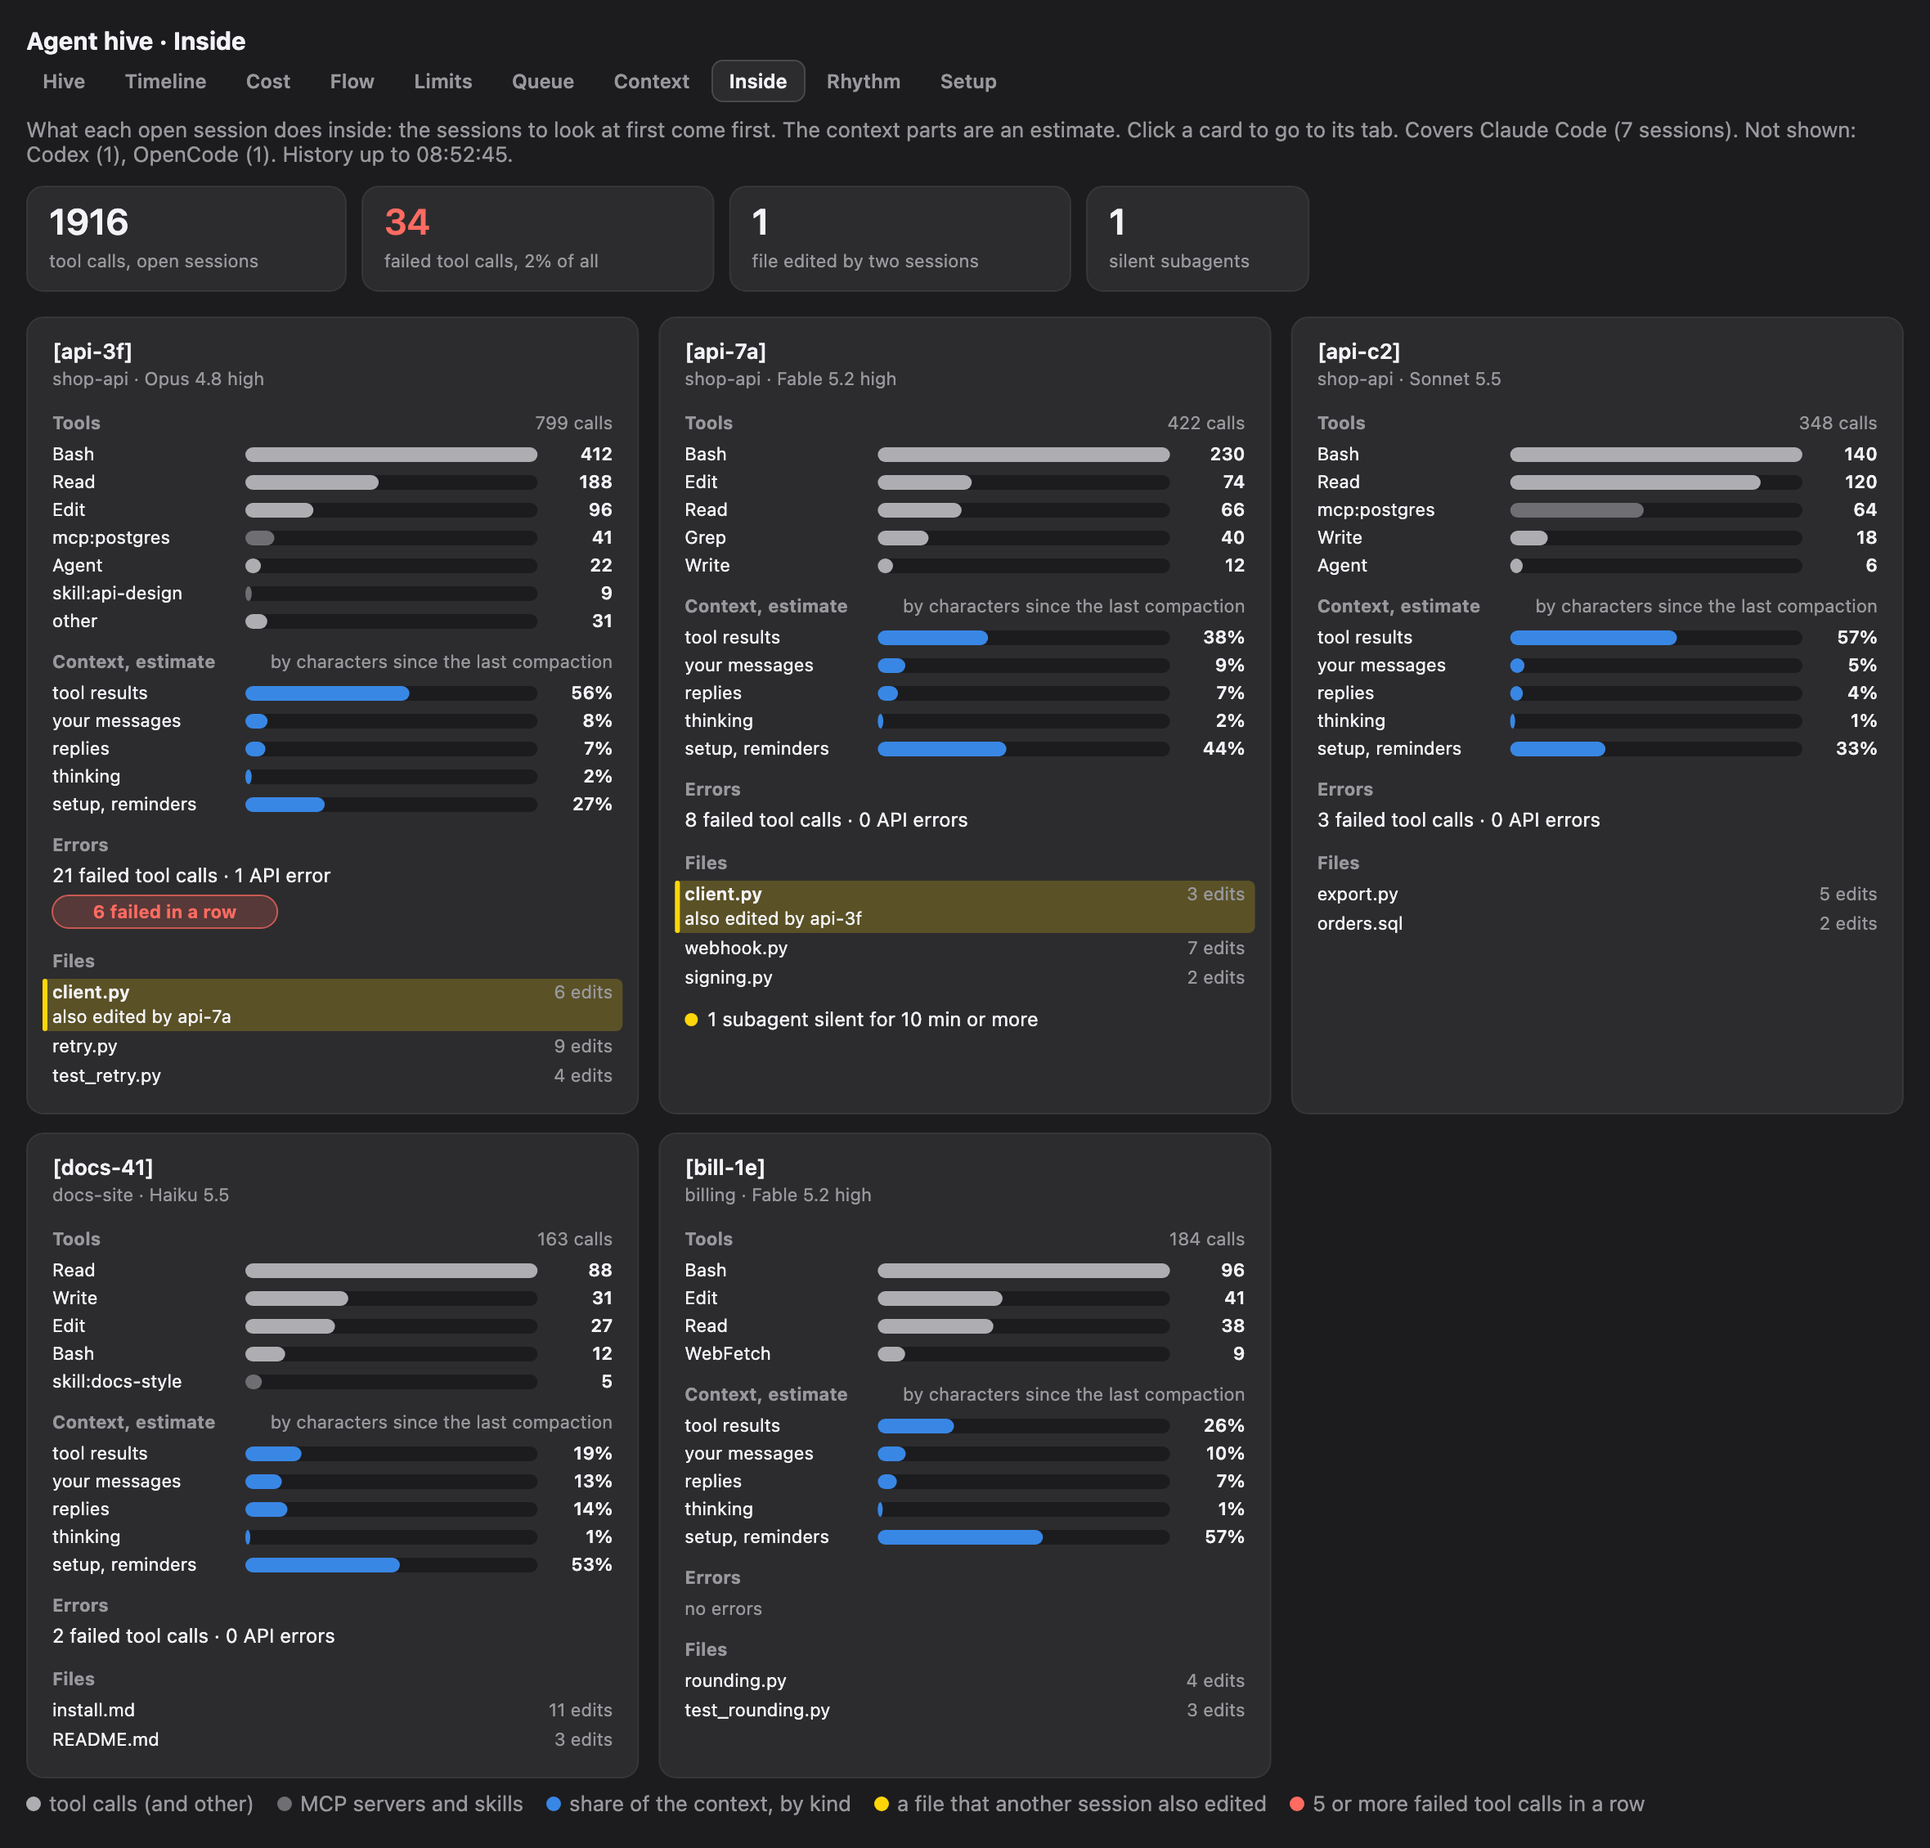
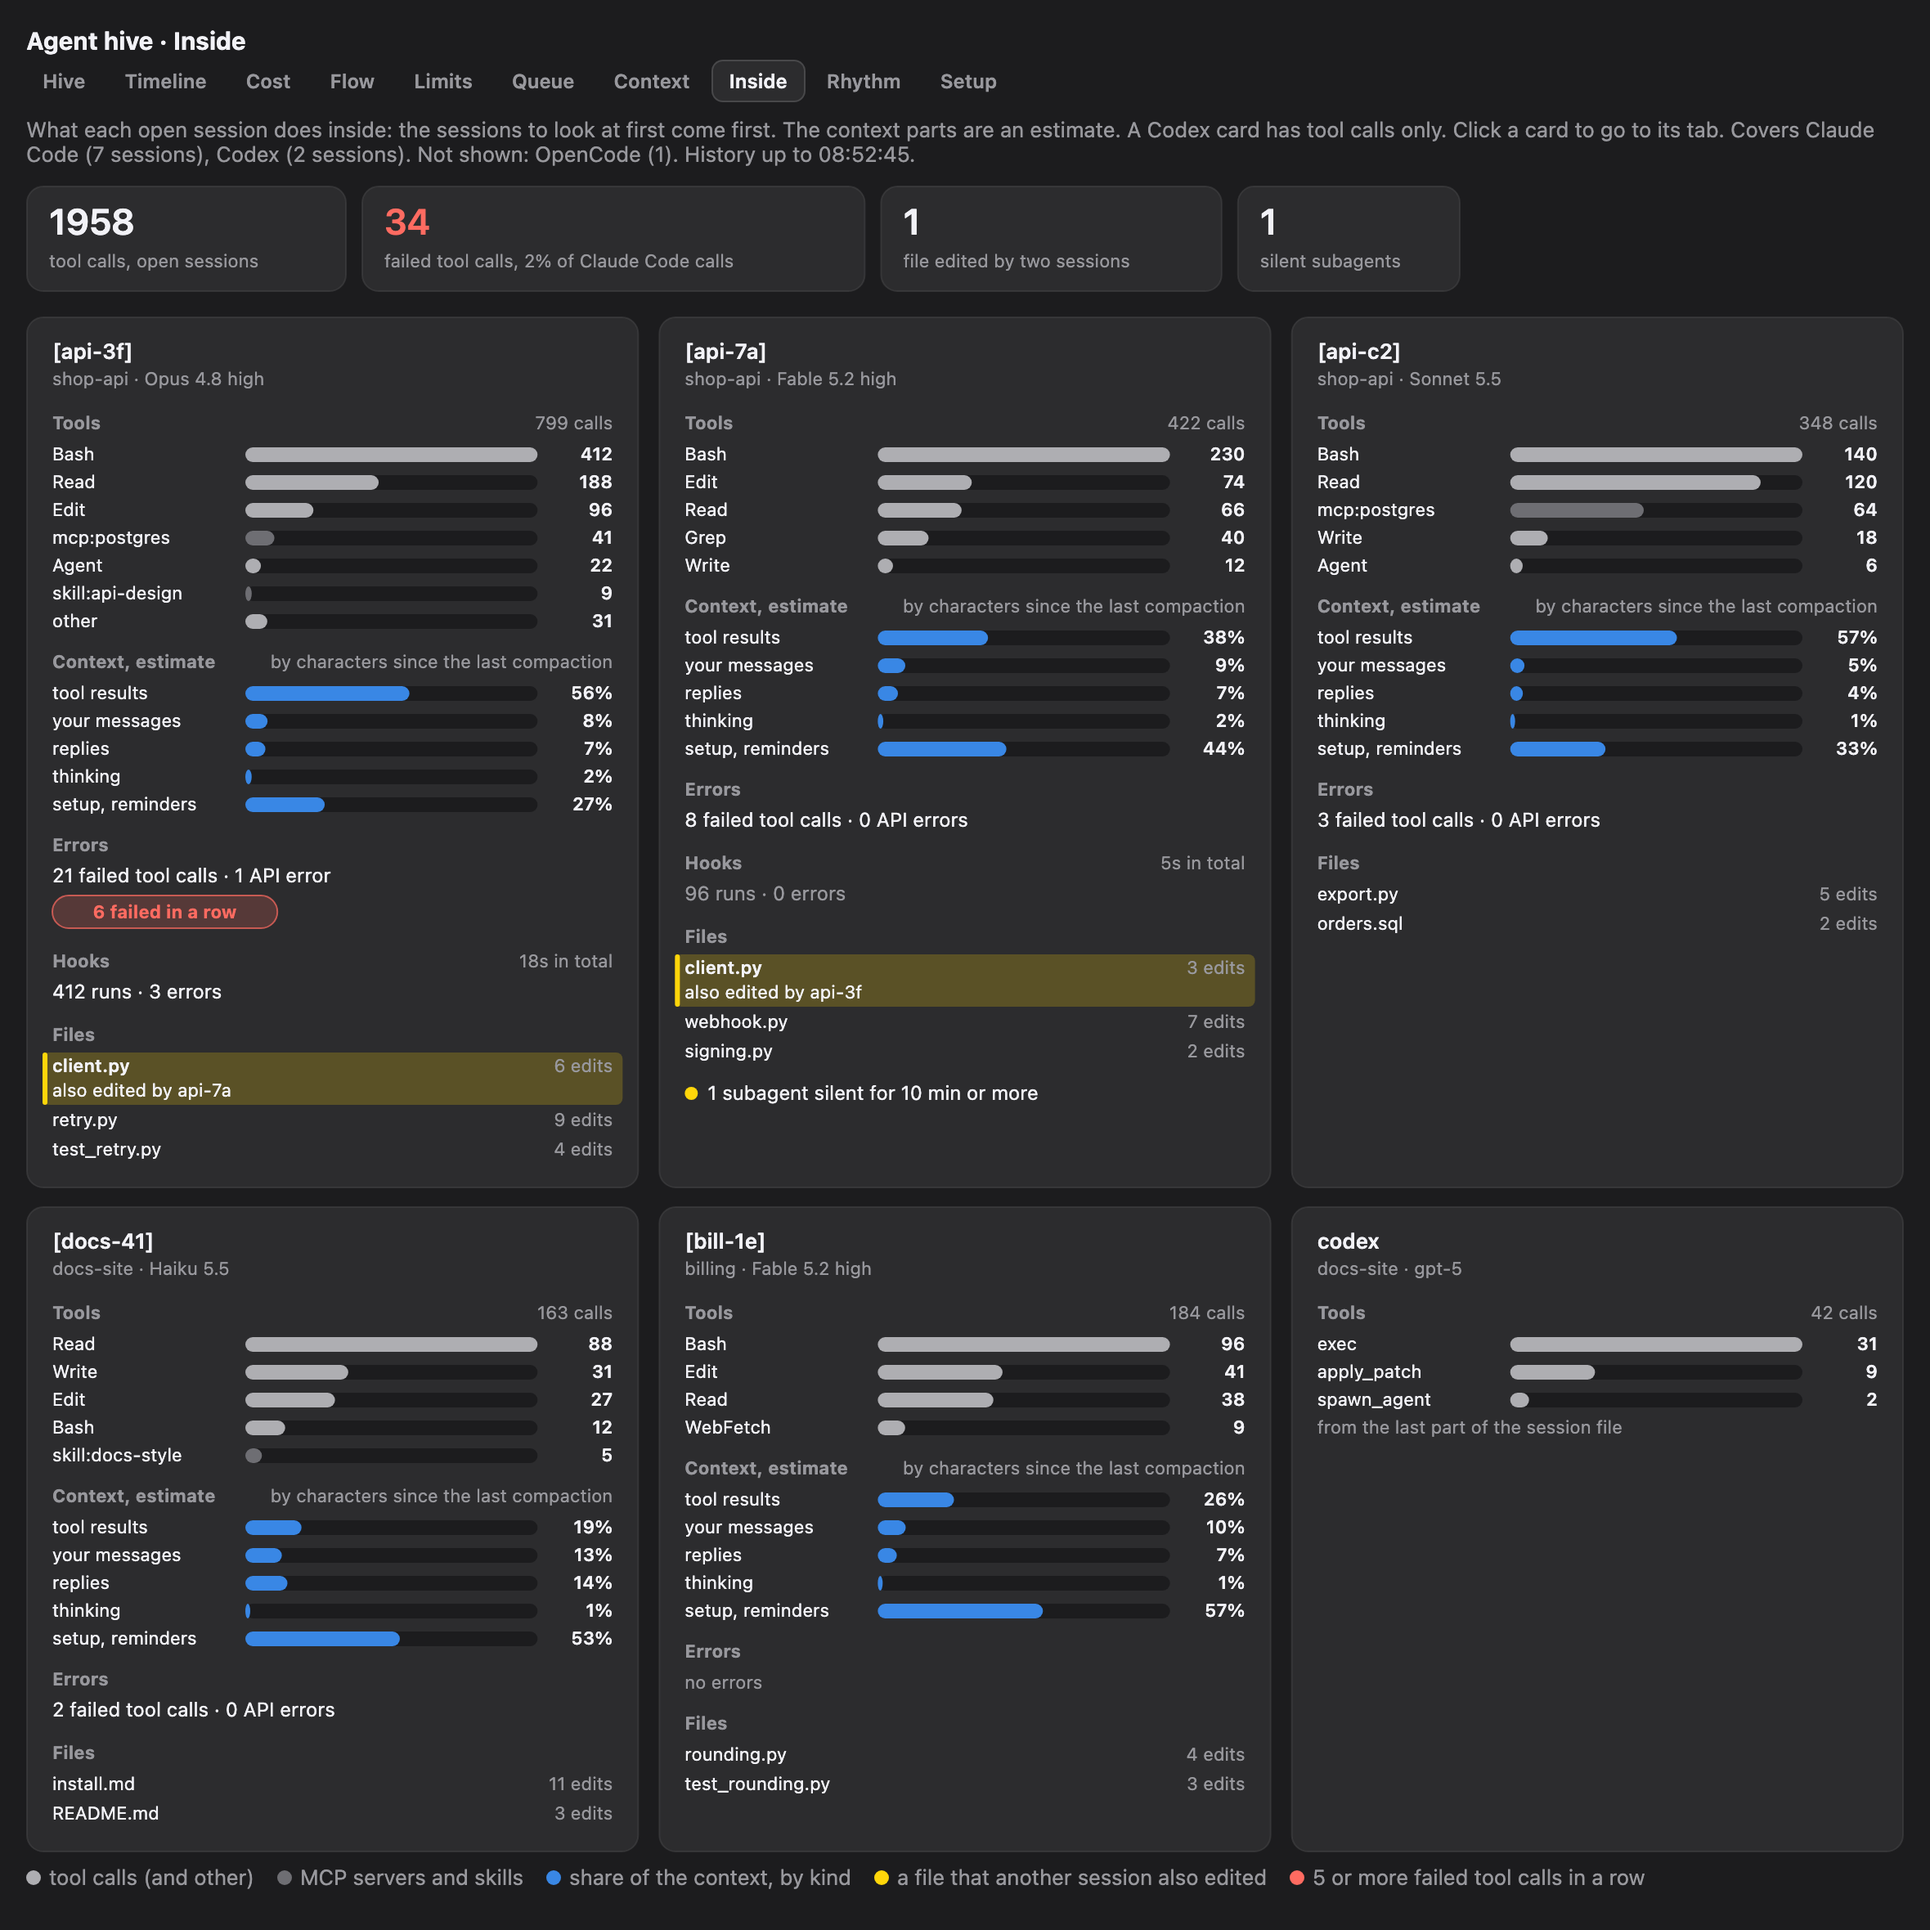
Inside: count hook errors from the turn summary, not a blocked figure; new sample pictures
No blocked-hook record exists in real transcripts, so the card shows hook
errors (non-zero exit codes and the error count of the stop-hook summary).
The failed share is of Claude Code calls only.

Claude-Session: https://claude.ai/code/session_01HXnduGYF8UR6DKBXDS7SRz

diff --git a/scripts/hive.html b/scripts/hive.html
@@ -1005,11 +1005,11 @@ function insideCard(a, CW) {
       y += 26;
     }
   }
-  // Hooks: how often the hooks of the harness ran in this session, how many runs blocked a step, and their time.
+  // Hooks: how often the hooks of the harness ran in this session, how many reported an error, and their time.
   if (a.hk > 0) {
     y += 8;
     head("Hooks", a.hm ? dur(a.hm / 1000) + " in total" : "");
-    g.appendChild(el("text", { x: 16, y: y + 11, style: "font-size:12px" + (a.hb ? "" : ";fill:var(--dim)") }, plural(a.hk, "run", "runs") + " · " + a.hb + " blocked"));
+    g.appendChild(el("text", { x: 16, y: y + 11, style: "font-size:12px" + (a.hb ? "" : ";fill:var(--dim)") }, plural(a.hk, "run", "runs") + " · " + plural(a.hb, "error", "errors")));
     y += 18;
   }
   // Files: the most edited ones, a file that another session also edited first and with the warning colour.
@@ -1048,13 +1048,15 @@ function drawInside(svg) {
   const urgent = (a) => (a.lp >= 5 ? 4 : 0) + (a.fo.length ? 2 : 0) + (a.er + a.ea ? 1 : 0);
   const rows = agents().filter(hasInside).sort((p, q) => urgent(q) - urgent(p) || calls(q) - calls(p));
   if (rows.length === 0) {
-    empty(svg, ["Nothing inside the sessions known yet.", "The watcher fills this view after the next reply of a Claude Code session.", ...onlyOthers(["Claude Code"])]);
-    return "Inside: no data." + coverage(["Claude Code"]);
+    empty(svg, ["Nothing inside the sessions known yet.", "The watcher fills this view after the next reply of a Claude Code session.", ...onlyOthers(["Claude Code", "Codex"])]);
+    return "Inside: no data." + coverage(["Claude Code", "Codex"]);
   }
   const W = pageWidth(), overlaps = new Set(rows.flatMap((a) => a.fo.map((f) => a.wn + "\n" + f[0]))).size;
+  // Codex cards carry no failure data, so the failed share is of the Claude Code calls.
+  const mine = rows.filter((a) => toolOf(a.k) !== "Codex").reduce((s, a) => s + calls(a), 0);
   const failed = rows.reduce((s, a) => s + a.er, 0), all = rows.reduce((s, a) => s + calls(a), 0), silent = rows.reduce((s, a) => s + a.sa, 0);
   // Failed calls are normal in a long session (a test that fails, a file that is not there): red only for a run of 5.
-  let y = tiles(svg, [[String(all), "tool calls, open sessions", ""], [String(failed), "failed tool calls" + (all ? ", " + Math.round(failed * 100 / all) + "% of all" : ""), rows.some((a) => a.lp >= 5) ? BAD : ""],
+  let y = tiles(svg, [[String(all), "tool calls, open sessions", ""], [String(failed), "failed tool calls" + (mine ? ", " + Math.round(failed * 100 / mine) + "% of Claude Code calls" : ""), rows.some((a) => a.lp >= 5) ? BAD : ""],
     [String(overlaps), overlaps === 1 ? "file edited by two sessions" : "files edited by two sessions", ""], [String(silent), "silent subagents", ""]]);
   y = grid(svg, y, W, rows, insideCard);
   size(svg, W, y + 6);

diff --git a/scripts/label-tabs.py b/scripts/label-tabs.py
@@ -196,7 +196,8 @@ def inside_line(state, line, now):
     times are kept, never text. now: the time of an edit whose line has no time (0 on a first read, so that an old
     edit does not look new)."""
     if b'"isSidechain":true' in line or not any(mark in line for mark in (
-            b'"type":"assistant"', b'"type":"user"', b'"type":"attachment"', b'"isApiErrorMessage":true')):
+            b'"type":"assistant"', b'"type":"user"', b'"type":"attachment"', b'"isApiErrorMessage":true',
+            b'"subtype":"stop_hook_summary"')):
         return
     try:
         record = json.loads(line)
@@ -212,16 +213,23 @@ def inside_line(state, line, now):
     if record.get("isApiErrorMessage") is True:
         state["ea"] += 1
         return
+    if record.get("subtype") == "stop_hook_summary":
+        # The summary of the hooks at the end of a turn: only the number of hooks that reported an error is kept.
+        errors = record.get("hookErrors")
+        state["hb"] += len(errors) if isinstance(errors, list) else 0
+        return
     if kind == "attachment":
         # A prompt snapshot is a copy of the prompt for the record, not a part of the context.
         attached = record.get("attachment") if isinstance(record.get("attachment"), dict) else {}
         if attached.get("type") != "prompt_snapshot":
             add("attachments", len(line.rstrip(b"\n")))
         # One record per run of a hook: its kind, exit code and run time are counted, never its command or output.
+        # A run with an exit code other than 0 is one hook error.
         kind = str(attached.get("type"))
         if kind.startswith("hook_") and kind != "hook_additional_context":
             state["hk"] += 1
-            state["hb"] += kind == "hook_blocking_error" or attached.get("exitCode") == 2
+            code = attached.get("exitCode")
+            state["hb"] += isinstance(code, int) and code != 0
             took = attached.get("durationMs")
             state["hm"] += took if isinstance(took, int) and 0 < took < 3_600_000 else 0
         return
@@ -272,7 +280,7 @@ def inside_save(path, state):
 
 
 def inside_summary(state):
-    """The hive keys of the counts: tl, tn, er, ea, lp, cm, fe, hk hook runs, hb hook blocks, hm hook time in ms,
+    """The hive keys of the counts: tl, tn, er, ea, lp, cm, fe, hk hook runs, hb hook errors, hm hook time in ms,
     sk the names of the skills called. A key with nothing to show is left out."""
     found = {}
     if state["tn"]:

diff --git a/tests/history.py b/tests/history.py
@@ -309,14 +309,16 @@ check("a Codex folder is counted with its own names", watcher.setup_inventory(os
       == {"files": [["AGENTS.md", 4]], "skills": 1, "commands": 1, "mcp": 2})
 # Hook runs: one record per run with its kind, exit code and time; the command and the output are not kept.
 state = watcher.inside_new()
-for kind, code, took in (("hook_success", 0, 40), ("hook_success", 0, 60), ("hook_blocking_error", 2, 100), ("hook_additional_context", 0, 0)):
+for kind, code, took in (("hook_success", 0, 40), ("hook_success", 0, 60), ("hook_success", 2, 100), ("hook_additional_context", 0, 0)):
     watcher.inside_line(state, json.dumps({"type": "attachment", "attachment": {
         "type": kind, "exitCode": code, "durationMs": took, "command": SECRET, "stdout": SECRET}}, separators=(",", ":")).encode(), 0)
 watcher.inside_line(state, json.dumps({"type": "assistant", "message": {"content": [
     {"type": "tool_use", "name": "Skill", "input": {"skill": "api-design"}}]}}, separators=(",", ":")).encode(), 0)
+watcher.inside_line(state, json.dumps({"type": "system", "subtype": "stop_hook_summary", "hookErrors": [SECRET, SECRET]},
+                                     separators=(",", ":")).encode(), 0)
 summary = watcher.inside_summary(state)
-check("hook runs, blocks and time are counted, and the skills called are named",
-      (summary.get("hk"), summary.get("hb"), summary.get("hm"), summary.get("sk")) == (3, 1, 200, ["api-design"])
+check("hook runs, errors and time are counted, and the skills called are named",
+      (summary.get("hk"), summary.get("hb"), summary.get("hm"), summary.get("sk")) == (3, 3, 200, ["api-design"])
       and SECRET not in json.dumps(summary))
 # Codex tool calls: the names from the session file, nothing of the arguments.
 write(os.path.join(box, "cx", "sessions", "2026", "01", "01", "rollout-a.jsonl"), "".join(json.dumps(

diff --git a/README.md b/README.md
@@ -135,7 +135,7 @@ A row shows at most 2 pills. Their order of priority is: `≠`, a PR that needs 
 | Limits | One card per limit window: the share in big figures, a verdict (`about 81% at the reset` or `100% Sat 19:57`), the readings, then a dashed line to the reset. A red card reaches 100% before the reset | Will I hit a limit before it resets? | History |
 | Queue | One bar per waiting session; the longest wait is first. Orange asks you, pale green ended its turn. Below, `How fast you answer`: the waits of the last 7 days that ended with your answer, counted by length, with the median as a figure | Who waits for me longest? How long do I keep agents waiting? | Live and history |
 | Context | One gauge per session, fullest first, with the number of compactions (`⟳`). `–` = not known: after a compaction or a resume Claude Code gives no figure until the next reply. The line under a gauge is the share over the last 6 hours: it falls at a compaction; the dotted line is 80% | Which session must I compact or restart? | Live and history |
-| Inside | One card per Claude Code session (a Codex session gets a card with its tool calls only): tool calls by tool (MCP servers and skills in a second grey), an estimate of what fills the context by kind, failed tool calls and API errors, hook runs with the blocked ones and their total time, the edited files, files that another session also edited (yellow), silent subagents. Sessions with 5 failures in a row come first | What does each agent do inside, and is one stuck? | Live |
+| Inside | One card per Claude Code session (a Codex session gets a card with its tool calls only): tool calls by tool (MCP servers and skills in a second grey), an estimate of what fills the context by kind, failed tool calls and API errors, hook runs with the hook errors and their total time, the edited files, files that another session also edited (yellow), silent subagents. Sessions with 5 failures in a row come first | What does each agent do inside, and is one stuck? | Live |
 | Rhythm | A grid of hours × the last 7 days, then a calendar of days (a week per row, up to 5 weeks); darker = more agent work | When do my agents work? | History |
 | Setup | The first card is the user folder of Claude Code (`~/.claude`), which every session loads; then one card per workspace: the instruction files with their sizes, and counts of skills, agents, commands, rules, hooks and MCP servers. A file that imports others with `@path` lines shows the size of the imports too ("234 B + 9.1 KB imports"). A file over 40 KB with its imports is yellow. A workspace card also shows the project memory of Claude Code: the index file `memory/MEMORY.md` with its size, and the number of memory files. A second card shows the Codex folder. A tile counts the different skills that the open sessions called, beside the number of skills in the user folder. It shows what the folder holds, not what was loaded | What does this workspace give its agents? | Live |
 
@@ -455,7 +455,7 @@ Without a watcher of your own the strip shows only the limit lines, one per tool
   - the full path of each file that the session edited, with a count and a time. At most 50 paths.
   - It keeps no message text, no tool input and no tool output. The hive data file gets the counts, and the file names without their folders.
 - `label-tabs.py` compares the edited paths of your live sessions, to find two sessions that edited the same file in the last 6 hours. The hive data file then names the file and the other session.
-- From the same transcript it counts the runs of hooks: per run the kind of record, the exit code and the run time. It keeps three sums (runs, blocked runs, time). It keeps no hook command and no hook output.
+- From the same transcript it counts the runs of hooks: per run the kind of record, the exit code and the run time. From the hook summary at the end of a turn it takes the number of hooks that reported an error. It keeps three sums (runs, errors, time). It keeps no hook command, no hook output and no error text.
 - For each workspace it looks at the project memory of Claude Code (`~/.claude/projects/<folder>/memory`): the size of `MEMORY.md` and the number of `.md` files. It reads no memory file.
 - For the Codex folder `~/.codex` it keeps the size of `AGENTS.md`, the entry counts of `skills`, `agents`, `prompts` and `rules`, and the number of tables under `mcp_servers` in `config.toml`: no value. From the read part of the newest Codex session file it also counts the tool calls by tool name: no argument and no output.
 - Four numbers also go into the workspace description: the errors, the failed tool results in a row, the files that overlap with another session, and the silent subagents.
